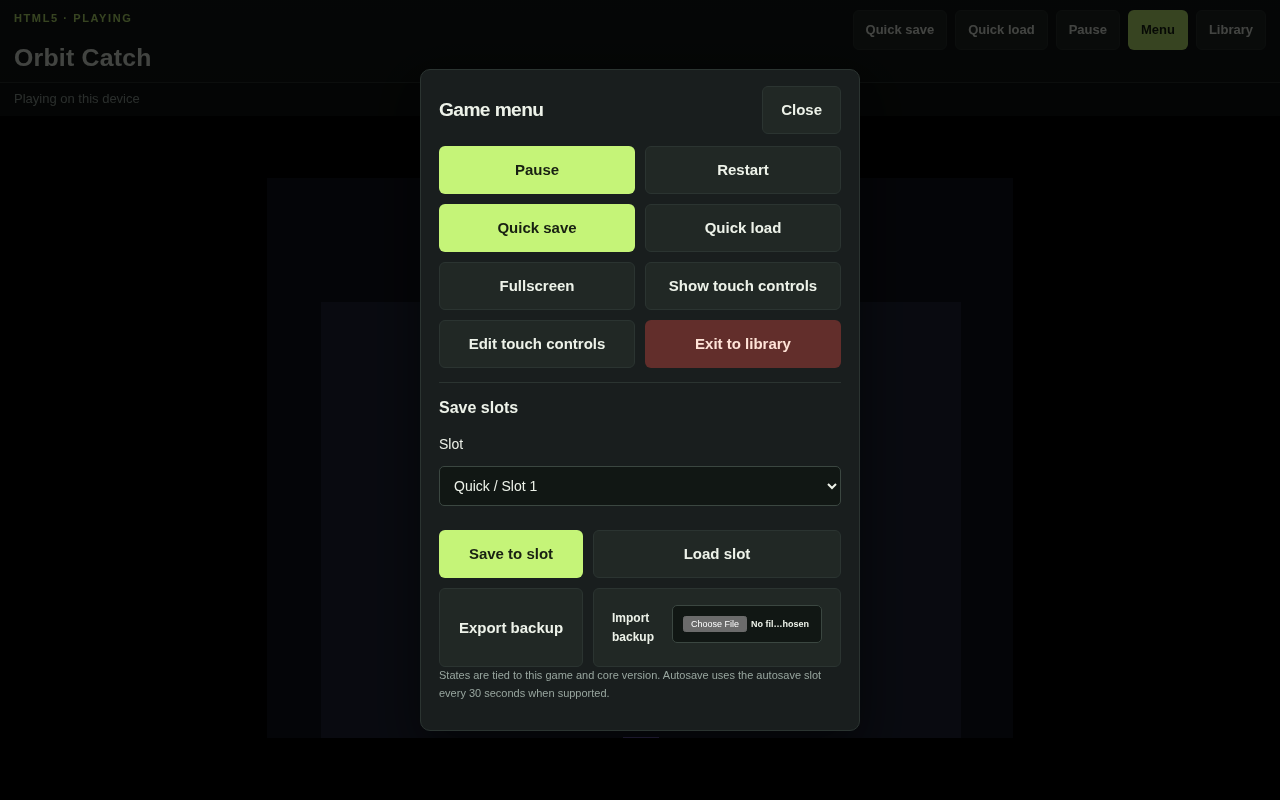
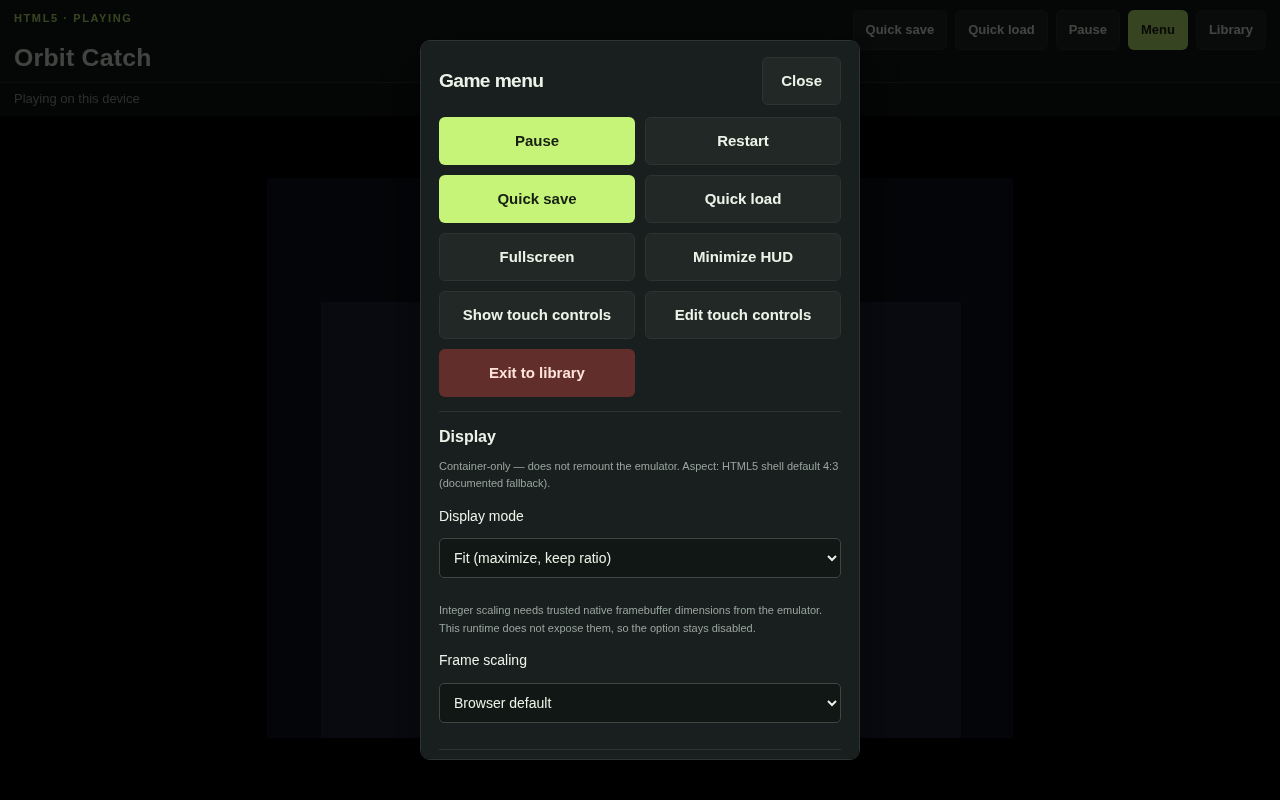
docs(test-evidence): record Sprint 4 personalization acceptance

Changed region(s): [[0.3125, 0.0625, 0.6875, 0.9688], [0.5312, 0.6875, 0.5938, 0.7188]]

diff --git a/docs/EXECUTION_STATE.md b/docs/EXECUTION_STATE.md
@@ -6,6 +6,7 @@
 **Player UX (PH-UX):** immersive PlayerShell + Gameplay UX Reliability — verified 2026-10-26.  
 **Hub UX (PH-UX-HUB):** Premium Gaming Hub — verified 2026-10-26.  
 **Hub UX Acceptance (Sprint 3.1):** offline persistent-profile journey, catalog Back/Forward history, Continue Playing accuracy, stable hub shots — verified 2026-10-26.  
+**Sprint 4 Personalization:** per-release prefs, shell display modes, shortcuts, save manager, HUD comfort — verified 2026-10-27.  
 **Open-source prep:** source-offer gate verifies **every** `SHA256SUMS` entry; `--require-public-delivery` for prod GPL serving; LOCAL_FULL needs `RBG_ALLOW_LOCAL_FULL=1`; MIT LICENSE proposed (not enacted). Sanitized candidate `77110c5` ← private `501ed79` (re-filter after newer tip before push). **STOP** before GitHub publish.
 
 ## Deferred physical / external (do not rediscover)
@@ -79,6 +80,17 @@
 | Download faults regression | all `DOWNLOAD_*_PASS` incl. 100MiB restart |
 | Vitest / typecheck | 36 passed / `tsc --noEmit` OK |
 | Bugs fixed | (1) first filter used `replaceState` so Back failed; (2) Menu visible≠enabled race before `recent:*`; (3) Continue Playing required genuine `recent:*`; (4) mid-load responsive screenshots |
+
+## Sprint 4 personalization (2026-10-27)
+
+| Check | Result |
+|---|---|
+| Preference unit tests | 50 Vitest passed (prefs/display/shortcuts/slots) |
+| Player personalization E2E | `PLAYER_PERSONALIZATION_PASS` → `docs/test-evidence/PH-UX-PERSONALIZE/` |
+| Player UX reliability regression | `PLAYER_UX_PASS` (Orbit/Genesis/MSX/mobile) |
+| Typecheck | `tsc --noEmit` OK |
+| Architecture | Prefs keyed by release id; Fit/Original shell CSS; integer scaling disabled honestly; no emulator remount on display change |
+| Limitations | No native framebuffer → no integer scaling; gamepad menu nav is simulated Start/Select only; physical gamepad NOT_VERIFIED |
 
 ## Remaining blockers / next
 
